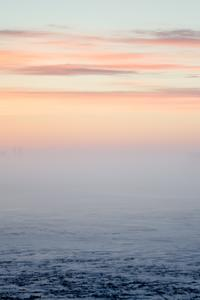
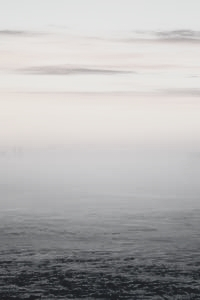
Edited images

diff --git a/contact.css b/contact.css
@@ -26,7 +26,8 @@ nav a {
 }
 
 .container {
-    background-image: url('1.jpg');
+    
+    background-image: url('contact.jpg');
     background-size: cover;
     background-repeat: no-repeat;
     height: 600px;

diff --git a/portfolio.css b/portfolio.css
@@ -26,7 +26,7 @@ nav a {
 }
 
 th, td {
-    padding: 2px;
+    padding: 1px 2px 1px 2px;
 }
 
 a {
